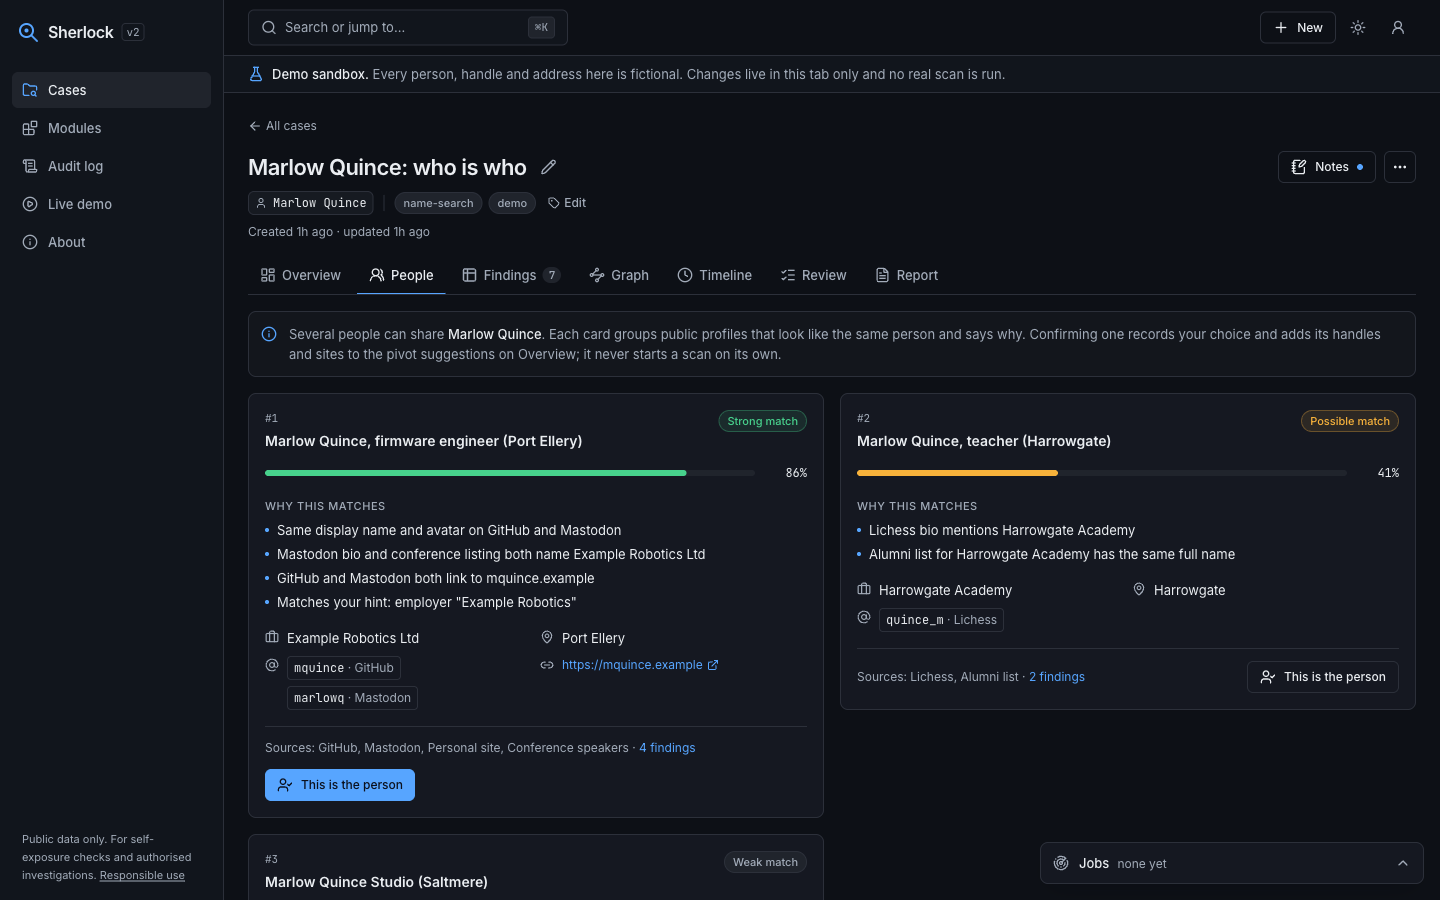
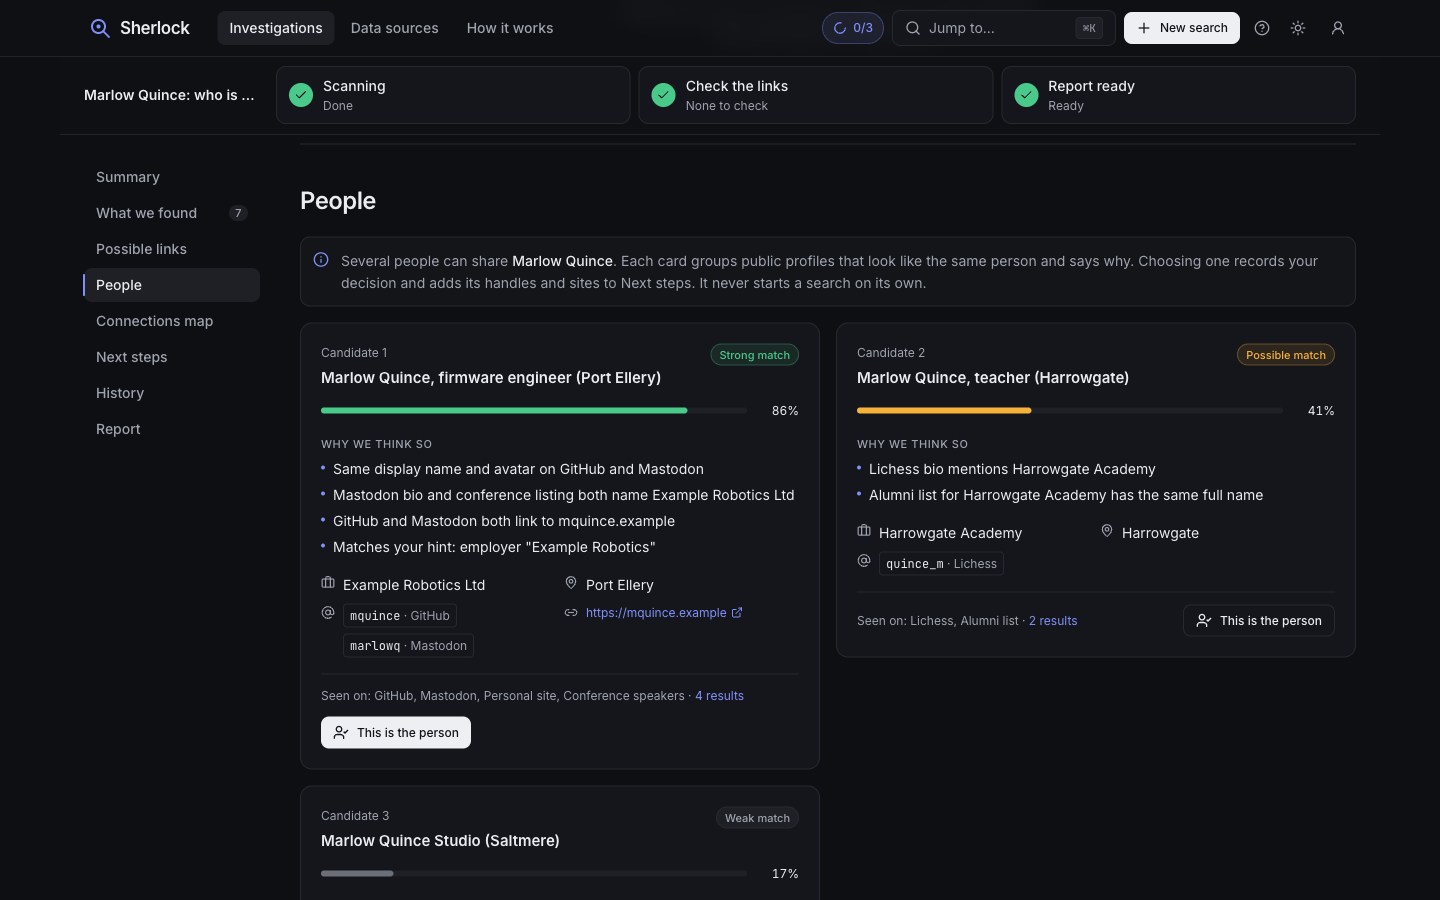
web: new screenshots and README for the redesigned UI

diff --git a/apps/web/README.md b/apps/web/README.md
@@ -1,6 +1,12 @@
 # Sherlock web
 
-The Next.js app for Sherlock v2. Pages are client-rendered data views behind a thin server shell:
+The Next.js app for Sherlock v2. One search box on the start screen, then one guided page per
+investigation: a three-step progress rail (Scanning → Check the links → Report ready) over
+Summary, What we found, Possible links, People, Connections map, Next steps, History and Report.
+Plain language by default; the **Advanced** switch (per browser) reveals data-source ids, queues,
+attempts, finding keys, rule ids and raw JSON. `/demo` runs a short guided tour.
+
+Pages are client-rendered data views behind a thin server shell:
 reads come straight from Supabase under row-level security (with Realtime), commands go to the
 gateway. No page ever waits on the gateway during render, so a sleeping scan service cannot break it.
 
@@ -34,7 +40,9 @@ If the Supabase variables are missing the app shows a banner and falls back to f
 NEXT_PUBLIC_FIXTURES=1 npm run dev
 ```
 
-Every screen then works with no backend. The data layer has one interface, `DataSource`
+Every screen then works with no backend. To run a second dev server next to one that is already
+running (Next allows one per build folder), give it its own folder:
+`NEXT_DIST_DIR=.next-demo NEXT_PUBLIC_FIXTURES=1 npx next dev -p 3417`. The data layer has one interface, `DataSource`
 (`lib/data/types.ts`), with two implementations: `lib/data/supabase.ts` (Supabase + gateway) and
 `lib/data/fixtures/` (in memory). The fixture source accepts every command, simulates job progress
 with timers and emits the same change events as Supabase Realtime, so the UI code path is identical.
@@ -42,17 +50,19 @@ The `/demo` route always uses it, whatever the environment.
 
 All fixture data is fictional: the handle `ada-fixture`, the name-search subject "Marlow Quince",
 reserved `.example` domains, RFC 5737 addresses. Fixture mode also scores exposure locally
-(`lib/data/fixtures/exposure.ts`) so the Overview card reacts to scans and review decisions.
+(`lib/data/fixtures/exposure.ts`) so the score reacts to scans and link decisions.
 
 ## Screenshots
 
-| Cases | Overview |
+| Start screen | Investigation |
 |---|---|
-| ![Cases](docs/screenshots/home.png) | ![Overview](docs/screenshots/overview.png) |
-| **Graph** | **Review** |
-| ![Graph](docs/screenshots/graph.png) | ![Review](docs/screenshots/review.png) |
-| **People (name search)** | |
-| ![People](docs/screenshots/people.png) | |
+| ![Start](docs/screenshots/home.png) | ![Investigation](docs/screenshots/overview.png) |
+| **Connections map** | **Possible links** |
+| ![Map](docs/screenshots/graph.png) | ![Links](docs/screenshots/review.png) |
+| **People (name search)** | **Light theme, first visit** |
+| ![People](docs/screenshots/people.png) | ![Light](docs/screenshots/home-light.png) |
+| **Mobile (375 px)** | |
+| ![Mobile](docs/screenshots/mobile.png) | |
 
 ## Gateway calls
 
@@ -61,28 +71,33 @@ while the service wakes (a "Waking the scan service…" notice appears after 3 s
 
 | Call | Used by |
 |---|---|
-| `GET /modules` | Modules page (falls back to the bundled catalogue) |
-| `POST /cases`, `PATCH /cases/{id}`, `DELETE /cases/{id}` | New investigation, case menu |
-| `POST /cases/{id}/scan` (`hints` for `type: "name"`) | Targets, pivots, scan form |
-| `POST /cases/{id}/jobs/{job}/cancel`, `POST /cases/{id}/wake` | Jobs panel, stuck-job wake (every 20 s at most) |
-| `POST /cases/{id}/findings/{fid}/curate`, `POST /correlations/{id}/review` | Findings star, Review |
-| `GET /cases/{id}/report` | Report tab |
-| `GET /cases/{id}/exposure` | Exposure card on Overview |
-| `GET /cases/{id}/candidates`, `POST /cases/{id}/candidates/{cid}/confirm` | People tab (404 shows "not available yet") |
+| `GET /modules` | Data sources page, source names (falls back to the bundled catalogue) |
+| `POST /cases`, `PATCH /cases/{id}`, `DELETE /cases/{id}` | Search box (with a source subset: create, then scan), header menu |
+| `POST /cases/{id}/scan` (`hints` for `type: "name"`) | Add another target, search again, suggested next searches, retry a source |
+| `POST /cases/{id}/jobs/{job}/cancel`, `POST /cases/{id}/wake` | Scan progress (stop), stuck-job wake (every 20 s at most) |
+| `POST /cases/{id}/findings/{fid}/curate`, `POST /correlations/{id}/review` | Pin, Possible links |
+| `GET /cases/{id}/report` | Report section (fetched when it scrolls into view) |
+| `GET /cases/{id}/exposure` | Summary score and "What to do" |
+| `GET /cases/{id}/candidates`, `POST /cases/{id}/candidates/{cid}/confirm` | People section (404 shows "not available yet") |
 
 ## Layout
 
 ```
 app/                  routes (thin server shells) + error / not-found / loading
 components/ui         shadcn/Radix primitives
-components/shell      app shell, command palette, account menu, banners
-components/cases      cases list and the New investigation dialog
-components/workspace  case workspace: overview (exposure), people, findings, graph, timeline,
-                      review, report, jobs
+components/shell      top bar, command palette, help and account menus, scan indicator, banners
+components/search     the smart search box (type detection, acknowledgement, options)
+components/start      start screen: hero search, examples, how it works, recent investigations
+components/case       the investigation page: header, progress rail, section nav, and one folder
+                      per section (scan, summary, found, links, people, map, next, history, report)
+components/tour       first-run coach-mark tour of the demo
 lib/types.ts          mirrors packages/core/sherlock_core/models.py
 lib/data              DataSource interface, Supabase and fixture implementations, gateway client
 lib/query             TanStack Query hooks, mutations and Realtime cache patching
 lib/graph             graph model + deterministic radial layout
+lib/detect-target.ts  guesses the target type from free text (start screen chip)
+lib/case-progress.ts  scan progress, the three rail steps, status lines; also case-summary,
+                      finding-groups, remediation, sections (old ?tab= links map onto sections)
 lib/finding-extras.ts parsers for module-specific finding shapes (DNS, services, wallet, image,
                       activity); unknown keys fall back to a generic key/value view
 ```
